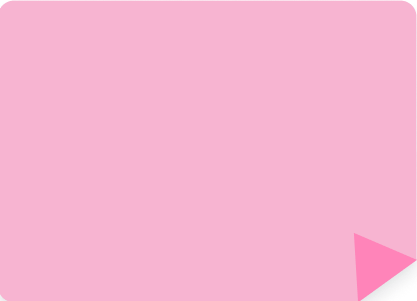
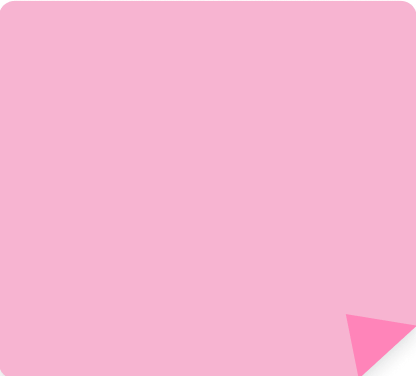
add corrections

diff --git a/src/data/Materials/testimonials.js b/src/data/Materials/testimonials.js
@@ -1,0 +1,43 @@
+import one from '../../assets/mentors/mentor-placeholder.png';
+import two from '../../assets/mentors/mentor-placeholder-two.png';
+import three from '../../assets/mentors/mentor-placeholder-three.png';
+
+const testimonials = [
+  {
+    id: 1,
+    image: one,
+    title: 'Це просто космос',
+    text: 'Доброго дня, вчора забрала цей скарб, велике дякую!! Це просто космос',
+    author: "Катерина"
+  },
+  {
+    id: 2,
+    image: two,
+    title: 'Окремий респект за QR із музикою ',
+    text: 'Доброго ранку, вчора забрала збірнички. Проглянула і воні неймовірні, окремий респект за QR-код з музичкою. Зараз збираюсь на пару, слухаю і кайфую. Дякую вам',
+    author: "Софія"
+  },
+  {
+    id: 3,
+    image: three,
+    title: 'Все структуровано та красиво! ',
+    text: 'Привіт)  Збірник забрала, мені дуже подобається дизайн, все структуровано та красиво! Десь годину чисто втикала в нього, все переглядала. Також QR-коди з відео, де показують, як діє препарат та розповідають про нього англійською мовою - це в саме сердечко💘 Видно, що все зроблено з душею, дякую велике!!💗',
+    author: "Глафіра"
+  },
+  {
+    id: 4,
+    image: one,
+    title: 'Все на найвищому рівні',
+    text: 'Добрий день, посібники забрала, все як завжди на вищому рівні. Дякую велике',
+    author: "Вікторія"
+  },
+  {
+    id: 5,
+    image: three,
+    title: 'Оформлення та якість - то 100/10',
+    text: 'Привіт)) Отримала збірник- то бомба🔥🔥 Поки по вмісту не можу нічого сказати, бо не в темі предмету, але оформлення, якість - то 100/10🥰🥰 дякую окремо за подаруночок і плейлист🤩🤩 короче, я в захваті)',
+    author: "Марія"
+  },
+];
+
+export default testimonials;

diff --git a/src/components/Footer/Footer.jsx b/src/components/Footer/Footer.jsx
@@ -1,7 +1,7 @@
 import './Footer.scss';
-import iconFacebook from '../../assets/facebook.svg';
+import iconFacebook from '../../assets/telegram.svg';
 import iconInstagram from '../../assets/instagram.svg';
-import iconLinkedin from '../../assets/linkedin.svg';
+import iconLinkedin from '../../assets/tiktok.svg';
 import iconYoutube from '../../assets/youtube.svg';
 import logo from '../../assets/logo.png';
 
@@ -92,10 +92,12 @@ export const Footer = () => {
               </ul>
             </nav>
             <div className="footer-top-left-heading">
-              <div className='footer-top-left-heading-heading'>
-                IT’s Med Ed
-              </div>
-              <img src={logo} alt="Med Ed" className='footer-top-left-heading-mobile' />
+              <div className="footer-top-left-heading-heading">IT’s Med Ed</div>
+              <img
+                src={logo}
+                alt="Med Ed"
+                className="footer-top-left-heading-mobile"
+              />
             </div>
           </div>
           <img src={logo} alt="Med Ed" />
@@ -107,22 +109,38 @@ export const Footer = () => {
           <div className="footer-bottom-icons">
             <ul className="footer-bottom-icons-list">
               <li className="footer-bottom-icons-list-item">
-                <a href="" className="footer-bottom-icons-list-item-link">
+                <a
+                  href="https://t.me/itsmeded"
+                  target="_blank"
+                  className="footer-bottom-icons-list-item-link"
+                >
                   <img src={iconFacebook} alt="Facebook" />
                 </a>
               </li>
               <li className="footer-bottom-icons-list-item">
-                <a href="" className="footer-bottom-icons-list-item-link">
+                <a
+                  href="https://www.instagram.com/its_med_ed?igsh=OTR3a3BlOTY2eGg3"
+                  target="_blank"
+                  className="footer-bottom-icons-list-item-link"
+                >
                   <img src={iconInstagram} alt="Instagram" />
                 </a>
               </li>
               <li className="footer-bottom-icons-list-item">
-                <a href="" className="footer-bottom-icons-list-item-link">
+                <a
+                  href="https://www.tiktok.com/@its_med_ed?_t=ZM-8z6y5n1KeSE&_r=1"
+                  target="_blank"
+                  className="footer-bottom-icons-list-item-link"
+                >
                   <img src={iconLinkedin} alt="LinkedIn" />
                 </a>
               </li>
               <li className="footer-bottom-icons-list-item">
-                <a href="" className="footer-bottom-icons-list-item-link">
+                <a
+                  href="https://youtube.com/@its_med_ed?si=S_t0-hzMraIEttwR"
+                  target="_blank"
+                  className="footer-bottom-icons-list-item-link"
+                >
                   <img src={iconYoutube} alt="Youtube" />
                 </a>
               </li>

diff --git a/src/data/About/team.js b/src/data/About/team.js
@@ -1,22 +1,22 @@
-import mentorOneImage from '../../assets/mentors/inna-step-one-med.jpg';
-import mentorTwoImage from '../../assets/mentors/nika-step-one-med.jpg';
-import mentorThreeImage from '../../assets/mentors/ivanna-step-one-med.JPG';
+import mentorOneImage from '../../assets/mentors/inna-step-one-med.webp';
+import mentorTwoImage from '../../assets/mentors/nika-step-one-med.webp';
+import mentorThreeImage from '../../assets/mentors/ivanna-step-one-med.webp';
 import mentorFourImage from '../../assets/mentors/mentor-placeholder.png';
-import mentorFiveImage from '../../assets/mentors/bohdan-step-one-med.jpg';
-import mentorSixImage from '../../assets/mentors/viktor-step-one-med.jpg';
-import mentorSevenImage from '../../assets/mentors/maxim-step-one-med.jpg';
+import mentorFiveImage from '../../assets/mentors/bohdan-step-one-med.webp';
+import mentorSixImage from '../../assets/mentors/viktor-step-one-med.webp';
+import mentorSevenImage from '../../assets/mentors/maxim-step-one-med.webp';
 import mentorEightImage from '../../assets/mentors/mentor-placeholder.png';
 import mentorNineImage from '../../assets/mentors/mentor-placeholder-two.png';
 import mentorTenImage from '../../assets/mentors/mentor-placeholder-three.png';
-import mentorElevenImage from '../../assets/mentors/ivanna-step-two-med.jpg';
-import mentorTwelvImage from '../../assets/mentors/andrii-step-two-med.jpeg';
+import mentorElevenImage from '../../assets/mentors/ivanna-step-two-med.webp';
+import mentorTwelvImage from '../../assets/mentors/andrii-step-two-med.webp';
 import mentorThirteenImage from '../../assets/mentors/artem-step-two-med.JPEG';
-import rostislav from '../../assets/mentors/rostislav-anatomiya.jpg';
-import nazrin from '../../assets/mentors/nazrin-biochemistry.jpg';
+import rostislav from '../../assets/mentors/rostislav-anatomiya.webp';
+import nazrin from '../../assets/mentors/nazrin-biochemistry.webp';
 import valeria from '../../assets/mentors/mentor-placeholder.png';
-import margo from '../../assets/mentors/margo-patamarphology.jpg';
-import olesia from '../../assets/mentors/olesia-pharmacology.jpg';
-import petro from '../../assets/mentors/perto-phisioligy.jpg';
+import margo from '../../assets/mentors/margo-patamarphology.webp';
+import olesia from '../../assets/mentors/olesia-pharmacology.webp';
+import petro from '../../assets/mentors/perto-phisioligy.webp';
 
 const team = [
   {
@@ -136,7 +136,7 @@ const team = [
     position: 'лікар-інтерн внутрішньої медицини',
   },
   {
-    id: 3,
+    id: 14,
     image: mentorThirteenImage,
     name: 'Артем',
     position: 'лікар-інтерн сімейної медицини',

diff --git a/src/pages/Lessons/Pharmacology/Pharmacology.jsx b/src/pages/Lessons/Pharmacology/Pharmacology.jsx
@@ -9,7 +9,7 @@ import { FaqCards } from '../../../components/FaqCards/FaqCards';
 import { Footer } from '../../../components/Footer/Footer';
 import cards from '../../../data/Lessons/Anatomy/cards';
 import reviews from '../../../data/Lessons/Pharmacology/reviews';
-import olesia from '../../../assets/mentors/olesia-pharmacology.jpg';
+import olesia from '../../../assets/mentors/olesia-pharmacology.webp';
 import faqcards from '../../../data/Lessons/Anatomy/faqcards';
 
 const testimonials = [
@@ -31,10 +31,12 @@ export const Pharmacology = () => {
           'Курс охоплює основи дії ліків, їх класифікацію, фармакокінетику й фармакодинаміку з акцентом на клінічну практику — вибір терапії, побічки та взаємодії препаратів.'
         }
         firstSem={'11 тем з загальної фармакології'}
-        secondSem={"10 тем з фармакології засобів, що впливають на функцію виконавчих органів"}
+        secondSem={
+          '10 тем з фармакології засобів, що впливають на функцію виконавчих органів'
+        }
         bottomText={
-        'Матеріал лекцій та уроків itsmeded постійно оновлюється відповідно до найактуальніших клінічних рекомендацій. Для цього використовуються авторитетні ресурси, зокрема <b>AMBOSS</b>, <b>Osmosis</b> та <b>UpToDate</b>.'
-      }
+          'Матеріал лекцій та уроків itsmeded постійно оновлюється відповідно до найактуальніших клінічних рекомендацій. Для цього використовуються авторитетні ресурси, зокрема <b>AMBOSS</b>, <b>Osmosis</b> та <b>UpToDate</b>.'
+        }
         courseBest={
           '<li><b>Пояснюємо зрозуміло і надовго</b> — знання залишаться не тільки до іспиту, а й на все життя.</li><li><b>Клініка тут і зараз:</b>кожен препарат — це історія пацієнта, а не суха таблиця.</li><li><b>Авторські схеми:</b> мінімум хаосу, максимум логіки (навіть фармакокінетика стає дружньою).</li><li><b>Мнемоніки та лайфхаки:</b> побічки залишаться в голові навіть після інтернатури.</li><li><b>Інтерактив:</b> тести, кейси, розбір інструкцій і групові штурми — вчимося думати, а не зазубрювати</li><br>Адаптуємо уроки під тематичний план вашого ВНЗ.<br>'
         }
@@ -43,7 +45,13 @@ export const Pharmacology = () => {
         }
       />
       <BreakLine />
-      <Cards cards={cards} title={'формат навчання та ціни'} text={"Ми займаємось за системою flipped classroom, тобто спочатку надсилаємо вам в чат запис лекції з тайм-кодами і презентацією, яку ви вдома переглядаєте самостійно, а потім вас вже запрошуємо на практичне заняття в зум (тривалістю година-півтори), де наш викладач буде вас опитувати, ви будете грати в ігри, вирішувати тести КРОК-1, STEP-1 і клінічні кейси, 3Д атлас Complete Anatomy.<br>Така система дозволяє запамʼятати і вивчити більший обʼєм інформації 🫂"} />
+      <Cards
+        cards={cards}
+        title={'формат навчання та ціни'}
+        text={
+          'Ми займаємось за системою flipped classroom, тобто спочатку надсилаємо вам в чат запис лекції з тайм-кодами і презентацією, яку ви вдома переглядаєте самостійно, а потім вас вже запрошуємо на практичне заняття в зум (тривалістю година-півтори), де наш викладач буде вас опитувати, ви будете грати в ігри, вирішувати тести КРОК-1, STEP-1 і клінічні кейси, 3Д атлас Complete Anatomy.<br>Така система дозволяє запамʼятати і вивчити більший обʼєм інформації 🫂'
+        }
+      />
       <Testimonials
         dpt={192}
         dpb={262}
@@ -51,7 +59,11 @@ export const Pharmacology = () => {
         testimonials={testimonials}
       />
       <ReviewsSlider reviews={reviews} dpt={64} dpb={262} />
-      <BottomBanner />
+      <BottomBanner
+        link={
+          'https://t.me/its_meded?text=Привіт!%20Готовий/а%20розкрити%20всі%20таємниці%20лікарських%20засобів!%20Записуйте%20мене%20на%20фармакологію!%20🎯'
+        }
+      />
       <FaqCards cardreviews={faqcards} />
       <Footer />
     </>

diff --git a/src/components/BottomBanner/BottomBanner.jsx b/src/components/BottomBanner/BottomBanner.jsx
@@ -5,7 +5,7 @@ import secondBubble from '../../assets/BottomBannerBubbles/second.svg';
 import thirdBubble from '../../assets/BottomBannerBubbles/third.svg';
 import forthBubble from '../../assets/BottomBannerBubbles/forth.svg';
 
-export const BottomBanner = () => {
+export const BottomBanner = ({ link }) => {
   return (
     <div className="bottombanner">
       <img src={firstBubble} className="bottombanner-first" />
@@ -25,7 +25,7 @@ export const BottomBanner = () => {
           </h2>
           <h2 className="bottombanner-heading bottombanner-heading-mobile">
             <img src={secondBubble} className="bottombanner-second" />
-            НАВЧАЙСЯ ЛЕГКО{' '} <br/>
+            НАВЧАЙСЯ ЛЕГКО <br />
             <span className="bottombanner-heading-subheading">
               складай успішно!
               <div className="bottombanner-heading-subheading-underline">
@@ -46,11 +46,19 @@ export const BottomBanner = () => {
           <br />
           Весь необхідний матеріал в одному місці.
         </div>
-        <a href="" className="button-primary">
+        <a
+          href={
+            link
+              ? link
+              : 'https://t.me/its_meded?text=Привіт,%20хочу%20записатись%20на%20навчання%20до%20вас!'
+          }
+          target="_blank"
+          className="button-primary"
+        >
           Почати навчання
         </a>
-        <img src={thirdBubble} className='bottombanner-third' />
-        <img src={forthBubble} className='bottombanner-forth' />
+        <img src={thirdBubble} className="bottombanner-third" />
+        <img src={forthBubble} className="bottombanner-forth" />
       </div>
     </div>
   );

diff --git a/src/data/AboutCourse/Medicine/team.js b/src/data/AboutCourse/Medicine/team.js
@@ -1,10 +1,10 @@
-import mentorOneImage from '../../../assets/mentors/inna-step-one-med.jpg';
-import mentorTwoImage from '../../../assets/mentors/nika-step-one-med.jpg';
-import mentorThreeImage from '../../../assets/mentors/ivanna-step-one-med.JPG';
+import mentorOneImage from '../../../assets/mentors/inna-step-one-med.webp';
+import mentorTwoImage from '../../../assets/mentors/nika-step-one-med.webp';
+import mentorThreeImage from '../../../assets/mentors/ivanna-step-one-med.webp';
 import mentorFourImage from '../../../assets/mentors/mentor-placeholder.png';
-import mentorFiveImage from '../../../assets/mentors/bohdan-step-one-med.jpg';
-import mentorSixImage from '../../../assets/mentors/viktor-step-one-med.jpg';
-import mentorSevenImage from '../../../assets/mentors/maxim-step-one-med.jpg';
+import mentorFiveImage from '../../../assets/mentors/bohdan-step-one-med.webp';
+import mentorSixImage from '../../../assets/mentors/viktor-step-one-med.webp';
+import mentorSevenImage from '../../../assets/mentors/maxim-step-one-med.webp';
 
 const team = [
   {

diff --git a/src/data/StepOne/team.js b/src/data/StepOne/team.js
@@ -1,10 +1,10 @@
-import mentorOneImage from '../../assets/mentors/inna-step-one-med.jpg';
-import mentorTwoImage from '../../assets/mentors/nika-step-one-med.jpg';
-import mentorThreeImage from '../../assets/mentors/ivanna-step-one-med.JPG';
+import mentorOneImage from '../../assets/mentors/inna-step-one-med.webp';
+import mentorTwoImage from '../../assets/mentors/nika-step-one-med.webp';
+import mentorThreeImage from '../../assets/mentors/ivanna-step-one-med.webp';
 import mentorFourImage from '../../assets/mentors/mentor-placeholder.png';
-import mentorFiveImage from '../../assets/mentors/bohdan-step-one-med.jpg';
-import mentorSixImage from '../../assets/mentors/viktor-step-one-med.jpg';
-import mentorSevenImage from '../../assets/mentors/maxim-step-one-med.jpg';
+import mentorFiveImage from '../../assets/mentors/bohdan-step-one-med.webp';
+import mentorSixImage from '../../assets/mentors/viktor-step-one-med.webp';
+import mentorSevenImage from '../../assets/mentors/maxim-step-one-med.webp';
 import mentorEightImage from '../../assets/mentors/mentor-placeholder.png';
 import mentorNineImage from '../../assets/mentors/mentor-placeholder-two.png';
 import mentorTenImage from '../../assets/mentors/mentor-placeholder-three.png';

diff --git a/src/components/MaterialsLine/MaterialsLine.jsx b/src/components/MaterialsLine/MaterialsLine.jsx
@@ -11,8 +11,14 @@ export const MaterialsLine = () => {
               <br />
               ДО КРОКУ
             </h2>
-            <div className='materialsline-title-small'>З нашими збірниками!</div>
-            <a href="" className="button-primary-big materialsline-title-button">
+            <div className="materialsline-title-small">
+              З нашими збірниками!
+            </div>
+            <a
+              href="https://t.me/its_meded?text=Привіт!%20Хочу%20замовити%20ваші%20друковані%20матеріали!%20📚%20Розкажіть,%20що%20у%20вас%20є!"
+              target="_blank"
+              className="button-primary-big materialsline-title-button"
+            >
               Замовити
             </a>
           </div>

diff --git a/src/data/Lessons/Anatomy/cards.js b/src/data/Lessons/Anatomy/cards.js
@@ -1,6 +1,6 @@
-import individual from '../../../assets/individ-lessons.png';
-import duo from '../../../assets/duo-lesson.png';
-import big from '../../../assets/big-group.png';
+import individual from '../../../assets/individ-lessons.webp';
+import duo from '../../../assets/duo-lesson.webp';
+import big from '../../../assets/big-group.webp';
 
 const cards = [
   {

diff --git a/src/data/AboutCourse/MedicineStepTwo/team.js b/src/data/AboutCourse/MedicineStepTwo/team.js
@@ -1,5 +1,5 @@
-import mentorOneImage from '../../../assets/mentors/ivanna-step-two-med.jpg';
-import mentorTwoImage from '../../../assets/mentors/andrii-step-two-med.jpeg';
+import mentorOneImage from '../../../assets/mentors/ivanna-step-two-med.webp';
+import mentorTwoImage from '../../../assets/mentors/andrii-step-two-med.webp';
 import mentorThreeImage from '../../../assets/mentors/artem-step-two-med.JPEG';
 
 const team = [

diff --git a/src/pages/Lessons/Anatomy/Anatomy.jsx b/src/pages/Lessons/Anatomy/Anatomy.jsx
@@ -9,7 +9,7 @@ import { FaqCards } from '../../../components/FaqCards/FaqCards';
 import { Footer } from '../../../components/Footer/Footer';
 import cards from '../../../data/Lessons/Anatomy/cards';
 import reviews from '../../../data/Lessons/Anatomy/reviews';
-import rostislav from '../../../assets/mentors/rostislav-anatomiya.jpg';
+import rostislav from '../../../assets/mentors/rostislav-anatomiya.webp';
 import faqcards from '../../../data/Lessons/Anatomy/faqcards';
 
 const testimonials = [
@@ -54,7 +54,7 @@ export const Anatomy = () => {
         testimonials={testimonials}
       />
       <ReviewsSlider reviews={reviews} dpt={64} dpb={262} />
-      <BottomBanner />
+      <BottomBanner link={"https://t.me/its_meded?text=Привіт!%20Готовий/а%20занурюватися%20у%20світ%20органів%20і%20систем!%20Записуйте%20мене%20на%20анатомію!"} />
       <FaqCards cardreviews={faqcards} />
       <Footer />
     </>

diff --git a/src/pages/Lessons/Biochemistry/Biochemistry.jsx b/src/pages/Lessons/Biochemistry/Biochemistry.jsx
@@ -9,7 +9,7 @@ import { FaqCards } from '../../../components/FaqCards/FaqCards';
 import { Footer } from '../../../components/Footer/Footer';
 import cards from '../../../data/Lessons/Anatomy/cards';
 import reviews from '../../../data/Lessons/Biochemistry/reviews';
-import nazrin from '../../../assets/mentors/nazrin-biochemistry.jpg';
+import nazrin from '../../../assets/mentors/nazrin-biochemistry.webp';
 import valeria from '../../../assets/mentors/mentor-placeholder.png';
 import faqcards from '../../../data/Lessons/Anatomy/faqcards';
 
@@ -62,7 +62,7 @@ export const Biochemistry = () => {
         testimonials={testimonials}
       />
       <ReviewsSlider reviews={reviews} dpt={64} dpb={262} />
-      <BottomBanner />
+      <BottomBanner link={"https://t.me/its_meded?text=Привіт!%20Хочу%20зрозуміти%20всі%20молекулярні%20процеси%20в%20організмі!%20🧬%20Записуйте%20на%20біохімію!"} />
       <FaqCards cardreviews={faqcards} />
       <Footer />
     </>